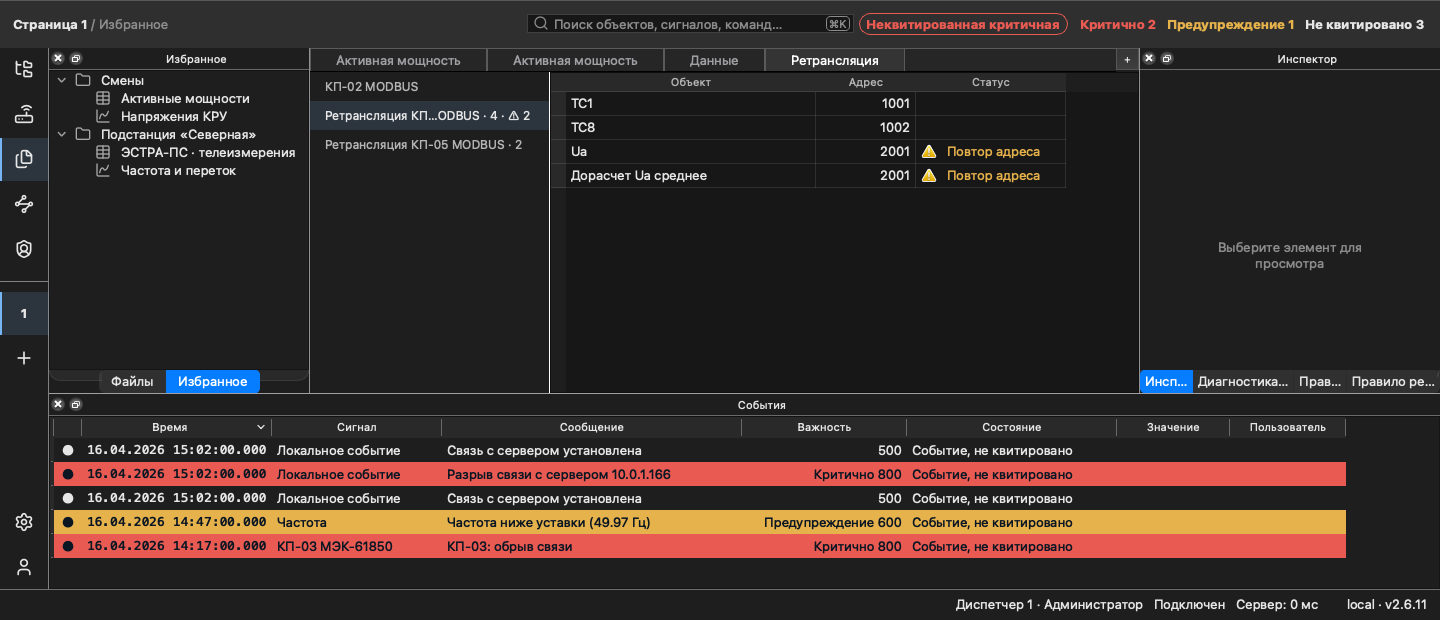
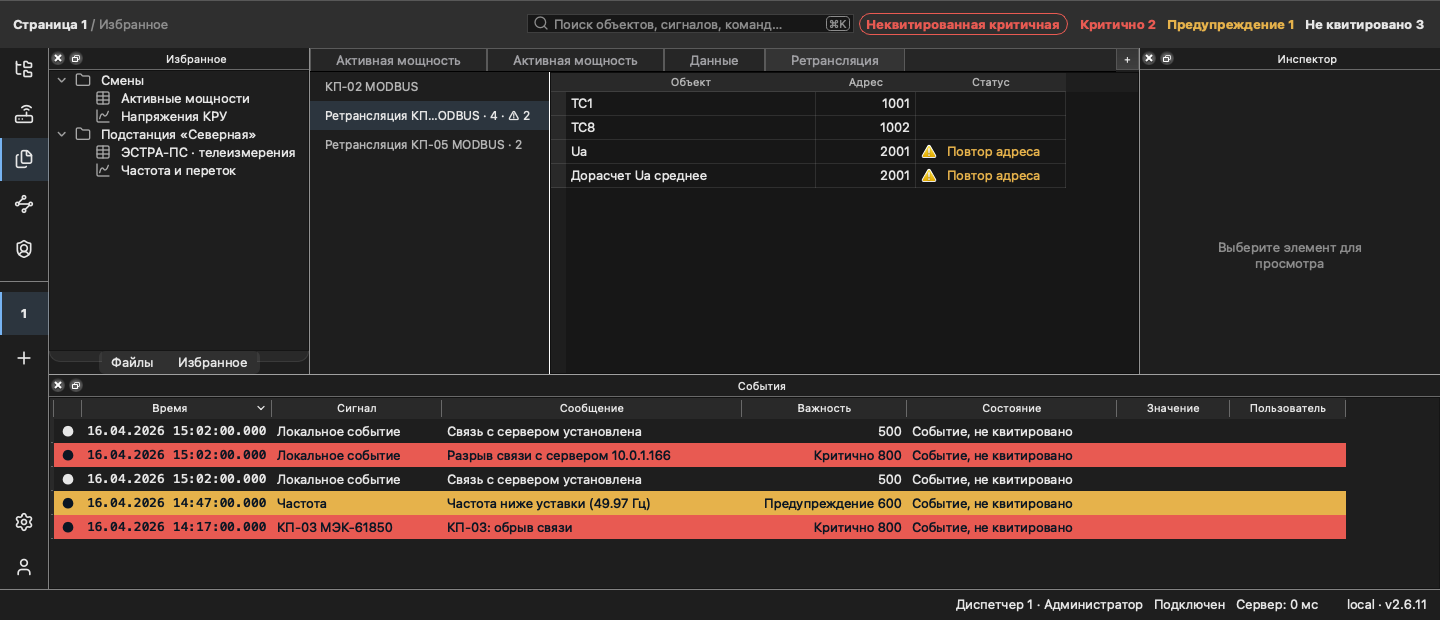
client: the specialist panels are sections of the Inspector card
Slice 1 of docs/client/ux/view-detail-consolidation.md (decided 2026-11-28).
«Диагностика устройства», «Права доступа» and «Правило ретрансляции» were
docks tabbed behind the Inspector; their tab bar held the right column at
~580 px (audit 5.4). Each is now a section under the element card.

- InspectorPanel::AddSection / SetSectionApplies: a section shows only under
  the element card, never under an event card or the empty state, and only
  while its panel applies. The Inspector's minimum width counts the visible
  sections.
- SelectionPanel::ShowSelection returns whether it applies; the three panels
  report it.
- MainWindow hosts the panels as sections and drops TabifySpecialistDocks and
  ElideDockTabTitles. The panels keep their object names; a page saved while
  they were docks names them in its dock state, and restoreState skips a dock
  that no longer exists. That old-layout path is not tested here.

Tests: main window (sections, hidden while not applying) and Inspector
(section visibility per card). All 3176 client tests pass.

Manual (RU+EN): workbench and users pages call them Inspector sections from
2.6.12. Design docs: shell.md §2.5, design.md, the audit and the proposal.
Gallery: favorites, workbench-window and workbench-overview re-rendered on
cocoa in a full pass, both themes. That pass's dialog captures came out with
inactive windows and were not committed.

Changed region(s): [[0.0312, 0.5823, 1.0, 0.9194], [0.5625, 0.0919, 0.625, 0.1226]]

diff --git a/client/workbench.md b/client/workbench.md
@@ -43,8 +43,11 @@ permalink: /client/workbench/
   «Оборудование», «Файлы» и «Узлы».
 - **Вкладки рабочей области** — открытые окна (журнал, таблицы, графики,
   мнемосхемы) в виде вкладок редактора.
-- **Панели справа** — Инспектор, Диагностика устройства, Права доступа,
-  Правило ретрансляции; заполняются по текущему выделению.
+- **Инспектор** (справа) — заполняется по текущему выделению. Для
+  устройства, пользователя или правила ретрансляции под карточкой объекта
+  появляется раздел «Диагностика устройства», «Права доступа» или «Правило
+  ретрансляции». Начиная с Клиента 2.6.12 это разделы инспектора, а не
+  отдельные панели-вкладки рядом с ним.
 - **Строка состояния** (снизу) — сводка событий, минимальная важность,
   наивысшая активная важность, пользователь и роль, состояние подключения,
   время отклика сервера, адрес сервера и версия Клиента (например,
@@ -55,7 +58,7 @@ permalink: /client/workbench/
   мнемосхем: недостоверные значения могут не отмечаться» (смотрите
   [Модуль отображения ранней сборки]({{ '/client/display/' | relative_url }}#old-runtime)).
 
-Для устройства МЭК-60870-5 панель «Диагностика устройства» показывает также
+Для устройства МЭК-60870-5 раздел «Диагностика устройства» показывает также
 состояние соединения, через которое оно опрашивается («Состояние соединения»),
 и кнопку «Переподключить сейчас», которая разрывает и
 заново устанавливает соединение. Связь общая для всех устройств на ней, поэтому
@@ -520,7 +523,7 @@ IEC 61850 Сервер объекты не передает, и устройст
 
 ### Панель «Правило ретрансляции»
 
-Выделение правила заполняет панель «Правило ретрансляции» справа:
+Выделение правила заполняет раздел «Правило ретрансляции» инспектора:
 
 ![]({{ '/img/transmission-rule.png' | relative_url }})
 

diff --git a/en/client/workbench.md b/en/client/workbench.md
@@ -43,8 +43,11 @@ The workbench regions:
   drawn. The same holds for the Devices, Files and Nodes panes.
 - **Workspace tabs** — the open windows (journal, tables, graphs, schematic
   displays) as editor-style tabs.
-- **Right-hand panels** — Inspector, Device diagnostics, Access rights,
-  Transmission rule; they fill from the current selection.
+- **Inspector** (right) — fills from the current selection. For a device, a
+  user or a transmission rule, a Device diagnostics, Access rights or
+  Transmission rule section appears under the object's card. From Client
+  2.6.12 these are sections of the Inspector, not separate tabbed panels
+  beside it.
 - **Status strip** (bottom) — the event summary, the minimum severity, the
   highest active severity, the user and role, the connection state, the server
   round-trip time, the server address and the Client's version (for example
@@ -56,7 +59,7 @@ The workbench regions:
   schematic is open (see
   [A display module from an earlier build]({{ '/en/client/display/' | relative_url }}#old-runtime)).
 
-For an IEC 60870-5 device the Device diagnostics panel also shows the state
+For an IEC 60870-5 device the Device diagnostics section also shows the state
 of the connection it is polled over ("Connection state", «Состояние
 соединения») and a "Reconnect now" («Переподключить сейчас») button, which
 drops and re-establishes the connection. The link is shared by every device
@@ -510,7 +513,7 @@ delete-node permission.
 
 ### The Transmission-rule panel
 
-Selecting a rule fills the Transmission-rule panel on the right:
+Selecting a rule fills the Inspector's Transmission rule section:
 
 ![]({{ '/img/transmission-rule.png' | relative_url }})
 

diff --git a/dev/users.md b/dev/users.md
@@ -200,8 +200,8 @@ UA, в которые она включена. Права дают две рол
 
 Учётная запись может нести несколько ролей одновременно, и их разрешения
 объединяются. Именно роли показаны в окне
-[«Пользователи»]({{ '/client/workbench/' | relative_url }}#users) и в панели «Права доступа»
-рабочего места; там же по ролям выводится, что учётной записи разрешено
+[«Пользователи»]({{ '/client/workbench/' | relative_url }}#users) и в разделе «Права доступа»
+инспектора; там же по ролям выводится, что учётной записи разрешено
 просматривать, чем управлять и что настраивать.
 
 ![Панель «Права доступа»]({{ '/img/users-rbac.png' | relative_url }})

diff --git a/en/dev/users.md b/en/dev/users.md
@@ -196,7 +196,7 @@ The roles the server grants a session:
 An account may hold several roles at once, and their permissions combine. It is
 the roles that the
 [Users]({{ '/en/client/workbench/#users' | relative_url }}) window and the
-workbench's Access rights panel show; the panel derives from them what the
+Inspector's Access rights section show; the section derives from them what the
 account may view, control and configure.
 
 ![Access rights panel]({{ '/img/users-rbac.png' | relative_url }})
